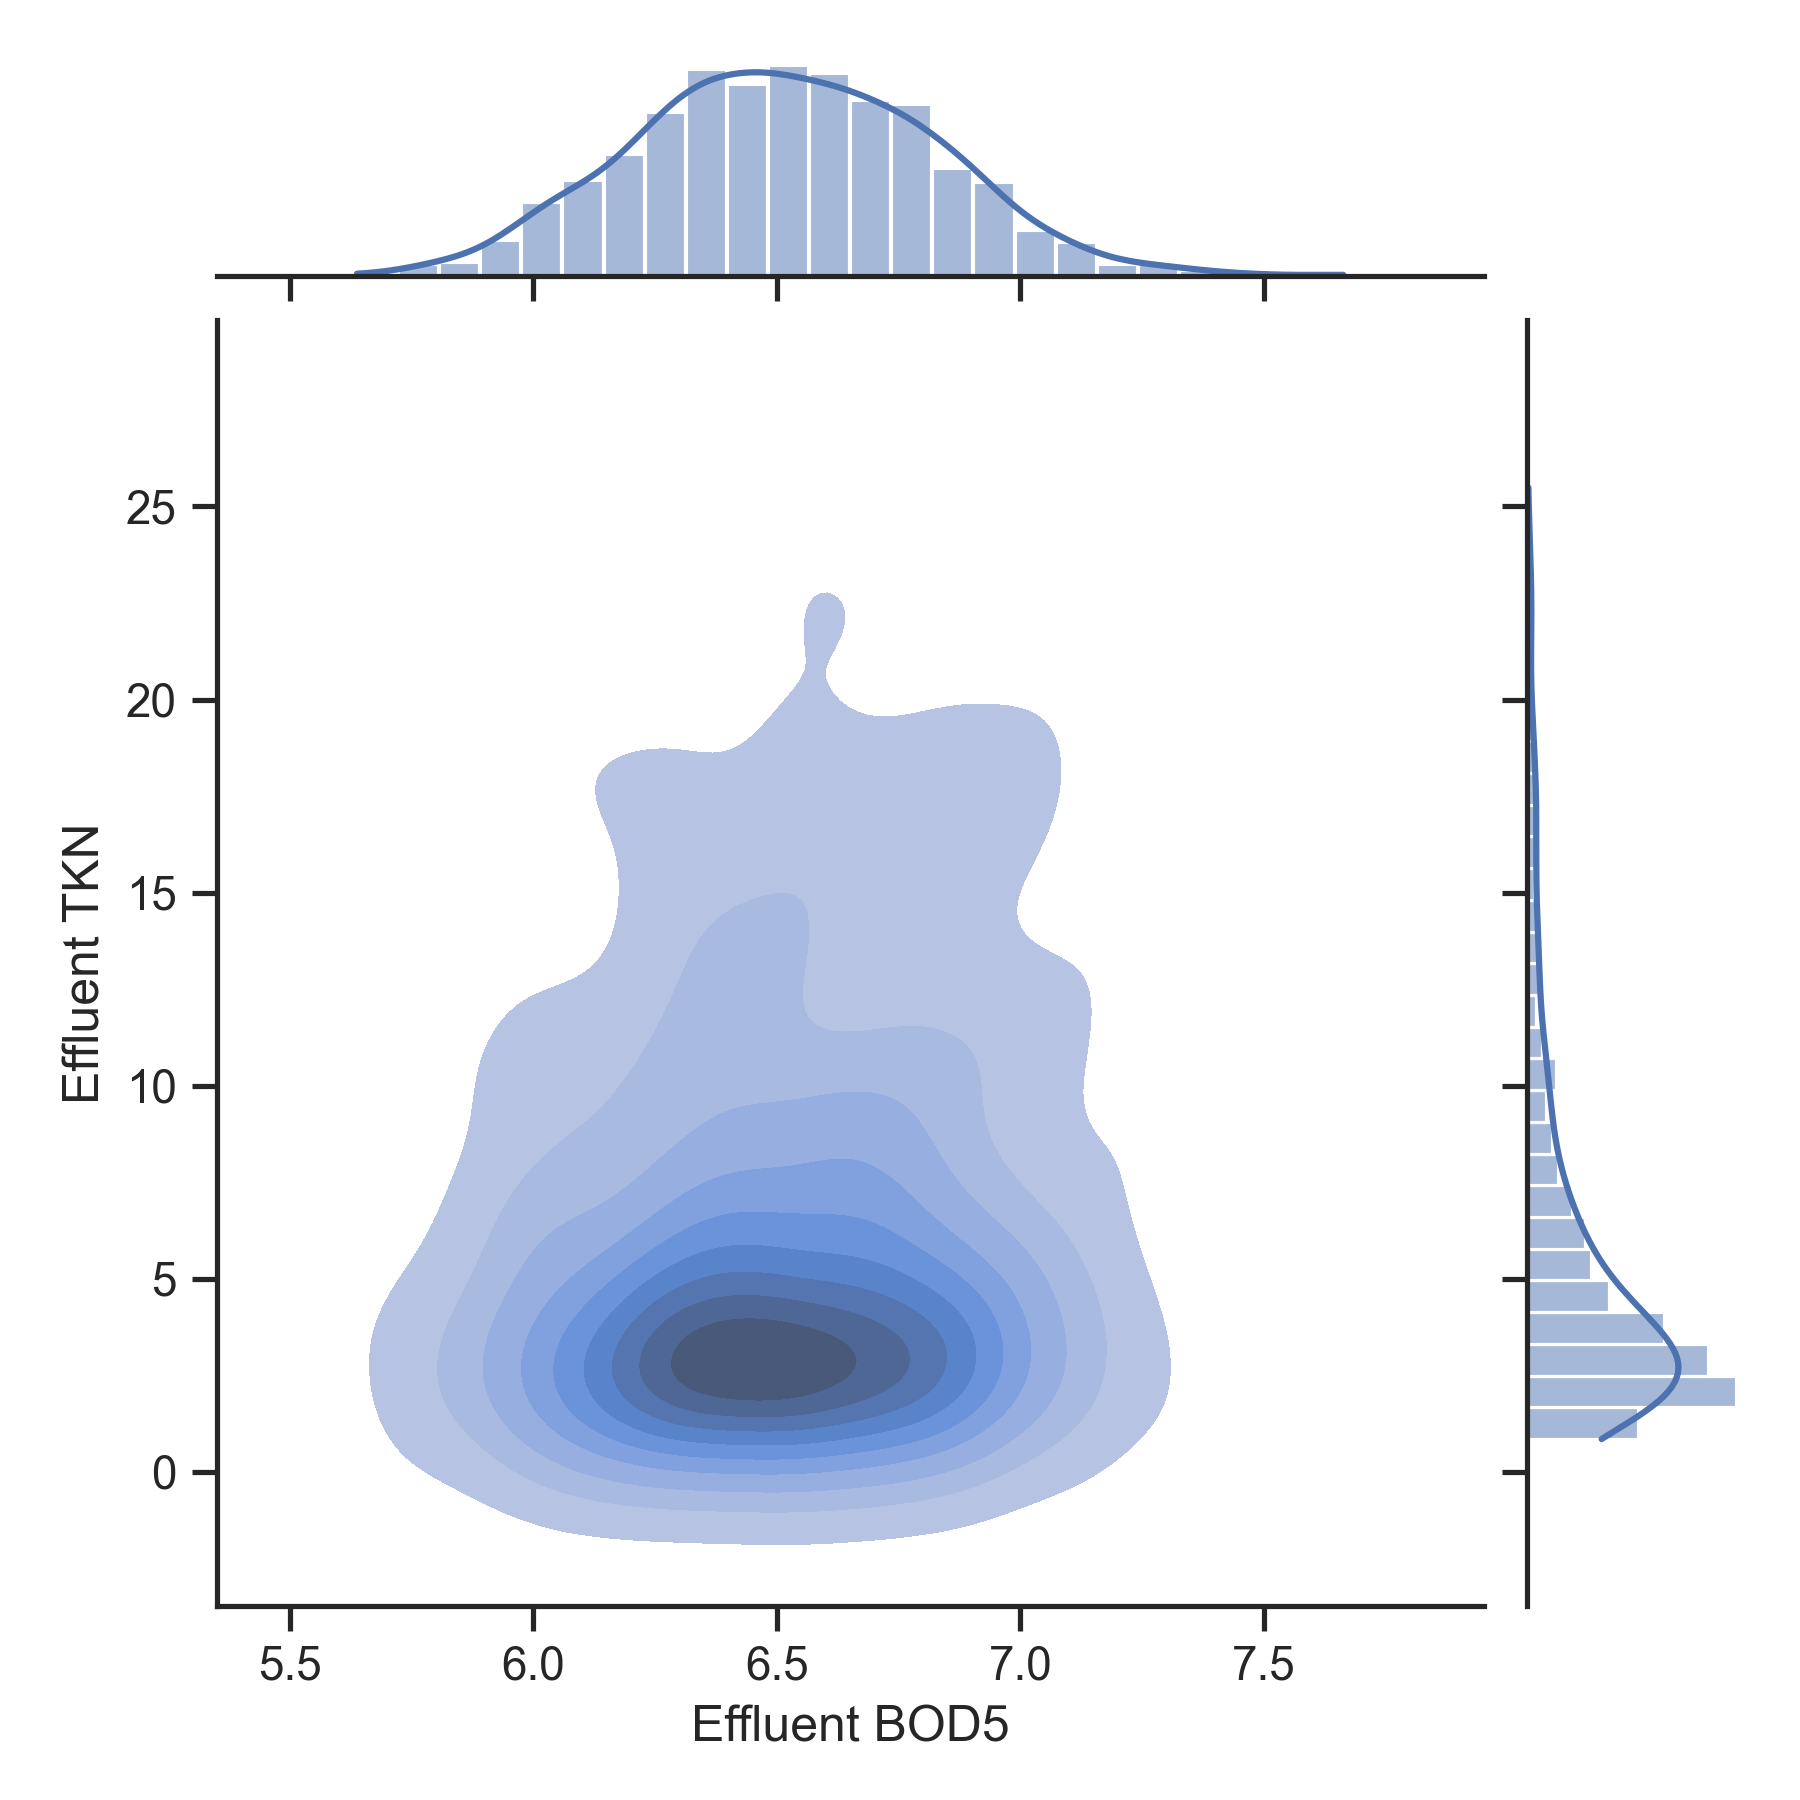
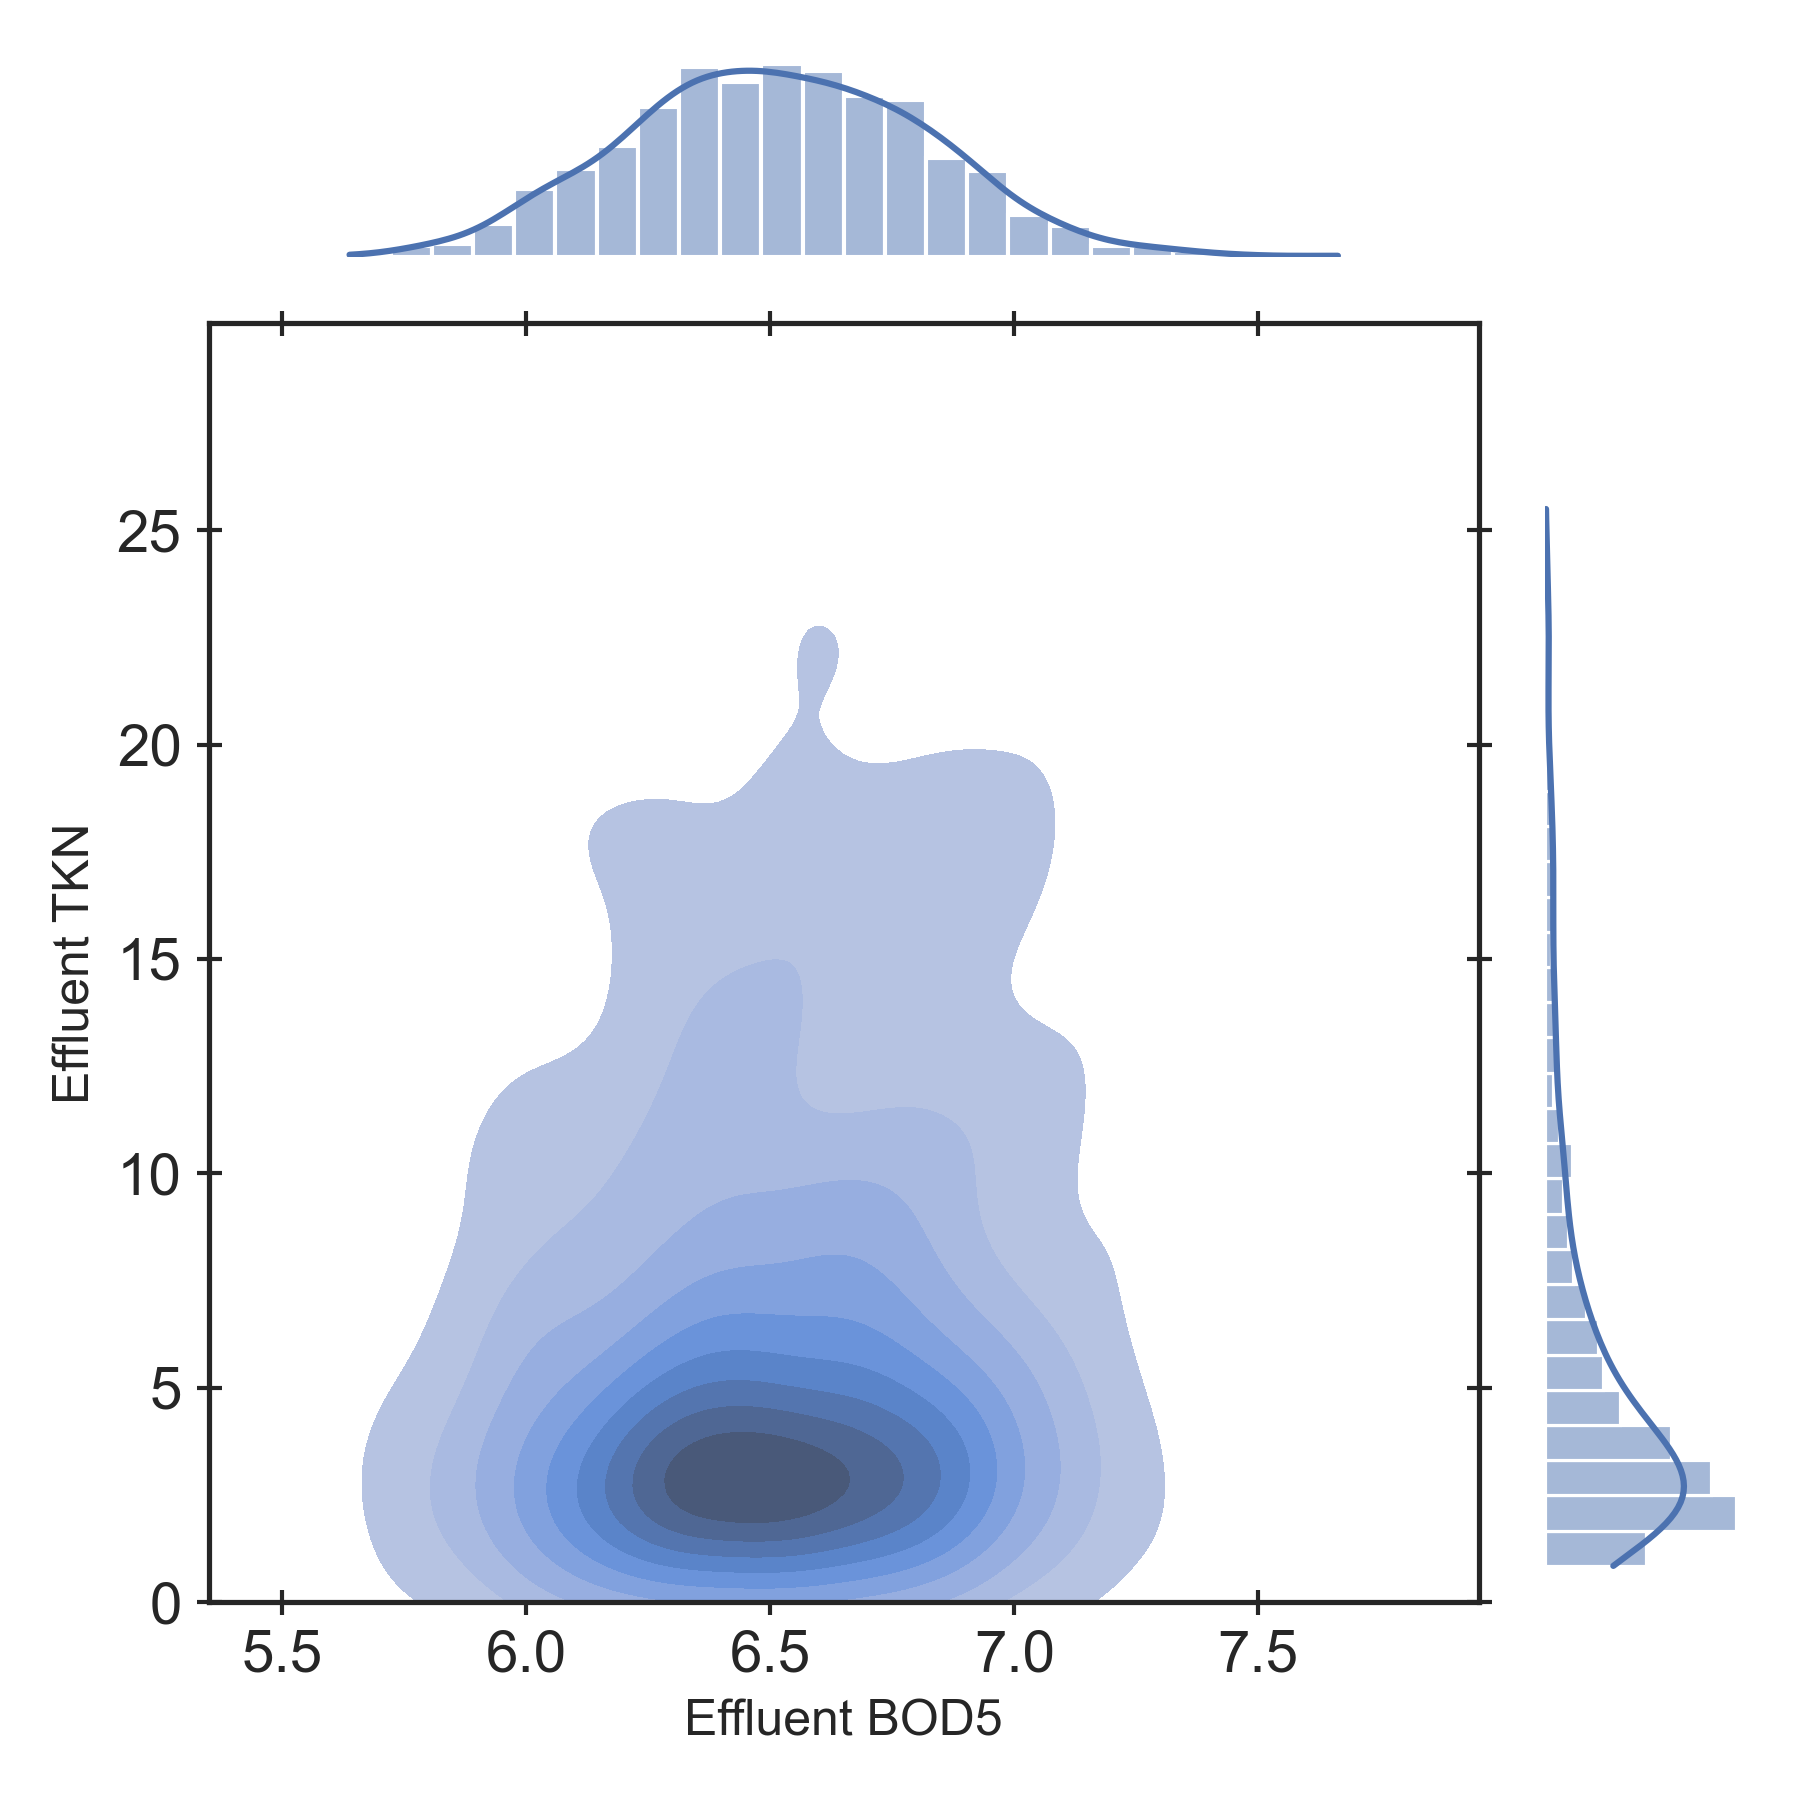
minor updates to bsm1 figures

diff --git a/exposan/bsm1/analyses.py b/exposan/bsm1/analyses.py
@@ -20,8 +20,9 @@ from exposan.bsm1 import model_bsm1 as mdl, model_2dv as mdl2, model_ss as mdls,
     results_path, figures_path
 import os
 import numpy as np
-import matplotlib as mpl, matplotlib.pyplot as plt
+import matplotlib as mpl, matplotlib.pyplot as plt, matplotlib.ticker as tk
 mpl.rcParams['font.sans-serif'] = 'arial' #!!! Yalin added this
+mpl.rcParams["figure.autolayout"] = True
 
 N = 1000
 T = 50
@@ -92,8 +93,8 @@ def plot_SE_timeseries(seed, N, data=None, wide=False):
     for var, ir, ic in plts:
         df = data[var]
         ax = axes[ir, ic]
-        ax.plot(df.t, df.iloc[:,:N].values,
-                color='grey', linestyle='-', alpha=0.05)
+        ys = df.iloc[:,:N].values
+        ax.plot(df.t, ys, color='grey', linestyle='-', alpha=0.05)
         lbl, = ax.plot(df.t, bl_data.loc[:, var],
                      color='orange', linestyle='-', linewidth=2.5,
                       label='Base')
@@ -103,12 +104,23 @@ def plot_SE_timeseries(seed, N, data=None, wide=False):
         l50, = ax.plot(df.t, df.loc[:,'50th percentile'],
                       color='black', linestyle='-.',
                       label='50th')
+        lct = tk.MaxNLocator(nbins=3, min_n_ticks=1)
+        y_ticks = lct.tick_values(np.min(ys), np.max(ys))
         ax.xaxis.set_ticks(x_ticks)
-        ax.tick_params(axis='both', direction='inout', labelsize=12) #!!! Yalin added
-        ax2 = ax.secondary_yaxis('right')
-        ax2.tick_params(axis='y', direction='in')
-        ax2.yaxis.set_major_formatter(plt.NullFormatter())
+        ax.yaxis.set_ticks(y_ticks)
+        if var == 'X_ND':
+            ax.yaxis.set_major_formatter(plt.FuncFormatter(lambda x, pos: f'{int(x*1000)}'))
+        ax.tick_params(axis='both', direction='inout', length=6, labelsize=14)
+        ax2x = ax.secondary_xaxis('top')
+        ax2x.xaxis.set_ticks(x_ticks)
+        ax2x.tick_params(axis='x', direction='in')
+        ax2x.xaxis.set_major_formatter(plt.NullFormatter())
+        ax2y = ax.secondary_yaxis('right')
+        ax2y.yaxis.set_ticks(y_ticks)
+        ax2y.tick_params(axis='y', direction='in')
+        ax2y.yaxis.set_major_formatter(plt.NullFormatter())
         # if ir == 0 and ic == 0: ax.legend(handles=[l5, l50, lbl])
+        plt.ylim(y_ticks[0], y_ticks[-1])
     if wide: plt.subplots_adjust(wspace=0.2, hspace=0.1)
     else: plt.subplots_adjust(hspace=0.1)
     fig.savefig(os.path.join(figures_path, 'effluent_yt.png'), dpi=300)
@@ -141,10 +153,10 @@ def plot_kde2d_metrics(model):
         ax0x = ax0.secondary_xaxis('top')
         ax0y = ax0.secondary_yaxis('right')
         for ax in (ax0, ax0x, ax0y):
-            ax.tick_params(axis='both', which='both', direction='inout', width=0.5)
+            ax.tick_params(axis='both', which='both', direction='inout', width=1)
 
         for txt in ax0.get_xticklabels()+ax0.get_yticklabels():
-            txt.set_fontsize(12)
+            txt.set_fontsize(14)
         ax0x.set_xticklabels('')
         ax0y.set_yticklabels('')
 
@@ -152,7 +164,8 @@ def plot_kde2d_metrics(model):
         ax1.spines.clear()
         ax2.spines.clear()
         ax2.yaxis.set_visible(False)
-
+        yl, yu = ax0.get_ylim()
+        if yl < 0: ax0.set_ylim((0, yu))
         fig.savefig(os.path.join(figures_path, f'{x}_vs_{y}.png'), dpi=300)
     fig, ax = plot_uncertainties(model, x_axis=metrics[6], kind='hist',
                                  center_kws={'kde':True})
@@ -171,7 +184,7 @@ def run_ks_test(model):
 def run_sensitivity(seed):
     mdl.table = load_data(os.path.join(results_path, f'table_{seed}.xlsx'), header=[0,1])
     plot_kde2d_metrics(mdl)
-    run_ks_test(mdl)
+    # run_ks_test(mdl)
 
 
 #%% 2-DV heatmap plotting
@@ -211,12 +224,14 @@ def plot_heatmaps(xx, yy, n, model=None, path='', wide=False):
     else:
         plts = zip(zz, irs, ics)
         fig, axes = plt.subplots(3, 2, sharex=True, sharey=True, figsize=(9,12))
+    
+    fig.set_tight_layout({'h_pad':4.5, 'w_pad': 0})
     for z, ir, ic in plts:
         ax = axes[ir, ic]
         pos = ax.imshow(z, aspect='auto', extent=(xx[0,0], xx[0,-1], yy[0,0], yy[-1,0]),
                         interpolation='spline16', origin='lower')
         ax.xaxis.set_ticks(x_ticks)
-        ax.tick_params(axis='both', direction='inout', labelsize=12)
+        ax.tick_params(axis='both', direction='inout', labelsize=14)
         ax.tick_params(axis='x', labelrotation=45)
         ax2x = ax.secondary_xaxis('top')
         ax2x.xaxis.set_ticks(x_ticks)
@@ -226,12 +241,12 @@ def plot_heatmaps(xx, yy, n, model=None, path='', wide=False):
         ax2y.tick_params(axis='y', direction='in')
         ax2y.yaxis.set_major_formatter(plt.NullFormatter())
         cbar = fig.colorbar(pos, ax=ax)
-        cbar.ax.tick_params(labelsize=12)
+        cbar.ax.tick_params(labelsize=14)
         cs = ax.contour(xx, yy, z, colors='white', origin='lower', linestyles='dashed',
                         linewidths=1, extent=(xx[0,0], xx[0,-1], yy[0,0], yy[-1,0]))
-        ax.clabel(cs, cs.levels, inline=True, fmt=fmt, fontsize=12)
-        ax.plot(xbl, ybl, marker='D', mec='black', mew=1.5, mfc='white')
-    if wide: plt.subplots_adjust(wspace=0.05, hspace=0.22)
+        ax.clabel(cs, cs.levels, inline=True, fmt=fmt, fontsize=14)
+        ax.plot(xbl, ybl, marker='D', mec='black', ms=7, mew=1.5, mfc='white')
+    # if wide: plt.subplots_adjust(wspace=0.05, hspace=0.5)
     fig.savefig(os.path.join(figures_path, 'heatmaps.png'), dpi=300)
     return fig, ax
 
@@ -257,7 +272,7 @@ def dv_analysis(n=20, T=T, t_step=t_step, save_to='table_2dv.xlsx',
     xx, yy = run_mapping(mdl2, n, T, t_step,
                          mpath=os.path.join(results_path, save_to))
     if plot: plot_heatmaps(xx, yy, n, mdl2, wide=wide)
-    # plot_heatmaps(xx, yy, n, path=os.path.join(results_path, save_to), wide=wide)
+    # if plot: plot_heatmaps(xx, yy, n, path=os.path.join(results_path, save_to), wide=wide)
 
 #%% 50-d simulations with different initial conditions
 def plot_SE_yt_w_diff_init(seed, N, data=None, wide=False):
@@ -280,18 +295,26 @@ def plot_SE_yt_w_diff_init(seed, N, data=None, wide=False):
     for var, ir, ic in plts:
         df = data[var]
         ax = axes[ir, ic]
-        ax.plot(df.t, df.iloc[:,:N].values,
-                color='grey', linestyle='-', alpha=0.25)
+        ys = df.iloc[:,:N].values
+        ax.plot(df.t, ys, color='grey', linestyle='-', alpha=0.25)
         lbm, = ax.plot(df.t, bm_data.loc[:, var],
                        color='red', linestyle='-.', label='MATLAB/Simulink')
+        lct = tk.MaxNLocator(nbins=3, min_n_ticks=1)
+        y_ticks = lct.tick_values(np.min(ys), np.max(ys))
         ax.xaxis.set_ticks(x_ticks)
-        ax.yaxis.set_major_locator(plt.MaxNLocator(5))
-        ax.tick_params(axis='both', direction='inout', labelsize=12)
-        ax2 = ax.secondary_yaxis('right')
-        ax2.tick_params(axis='y', direction='in')
-        ax2.yaxis.set_major_formatter(plt.NullFormatter())
+        ax.yaxis.set_ticks(y_ticks)
+        # ax.yaxis.set_major_locator(plt.MaxNLocator(5))
         if var == 'X_ND':
             ax.yaxis.set_major_formatter(plt.FuncFormatter(lambda x, pos: f'{int(x*1000)}'))
+        ax.tick_params(axis='both', direction='inout', length=6, labelsize=14)
+        ax2x = ax.secondary_xaxis('top')
+        ax2x.xaxis.set_ticks(x_ticks)
+        ax2x.tick_params(axis='x', direction='in')
+        ax2x.xaxis.set_major_formatter(plt.NullFormatter())
+        ax2y = ax.secondary_yaxis('right')
+        ax2y.yaxis.set_ticks(y_ticks)
+        ax2y.tick_params(axis='y', direction='in')
+        ax2y.yaxis.set_major_formatter(plt.NullFormatter())
         # if ir == 0 and ic == 0: ax.legend(handles=[lbm])
     if wide: plt.subplots_adjust(wspace=0.2, hspace=0.1)
     else: plt.subplots_adjust(hspace=0.1)
@@ -308,11 +331,11 @@ def UA_w_diff_inits(seed=None, N=100, T=T, t_step=t_step, plot=True, wide=True):
 
 #%%
 if __name__ == '__main__':
-    seed1 = UA_w_all_params()
-    run_sensitivity(seed1)
-    # plot_SE_timeseries(seed=seed1, N=N, wide=True)
+    # seed1 = UA_w_all_params()
+    run_sensitivity(624)
+    # plot_SE_timeseries(seed=624, N=N, wide=True)
 
-    dv_analysis()
+    # dv_analysis()
 
-    seed2 = UA_w_diff_inits()
-    # plot_SE_yt_w_diff_init(seed=seed2, N=100, wide=True)
+    # seed2 = UA_w_diff_inits()
+    # plot_SE_yt_w_diff_init(seed=235, N=100, wide=True)

diff --git a/exposan/bsm1/system.py b/exposan/bsm1/system.py
@@ -148,7 +148,7 @@ batch_init(os.path.join(bsm1_path, 'data/initial_conditions.xlsx'), 'default')
 # bio = System('Bio', path=(A1, A2, O1, O2, O3), recycle=(RE,))
 # bsm1 = System('BSM1', path=(bio, C1, S1), recycle=(RAS,))
 bsm1 = System('BSM1', path=(A1, A2, O1, O2, O3, C1), recycle=(RE, RAS))
-bsm1.set_dynamic_tracker(SE)
+bsm1.set_dynamic_tracker(A1, SE)
 bsm1.set_tolerance(rmol=1e-6)
 bio_IDs = ('X_BH', 'X_BA')
 
@@ -170,7 +170,7 @@ def run(t, t_step, method=None, **kwargs):
                       method=method,
                       # rtol=1e-2,
                       # atol=1e-3,
-                      export_state_to=f'results/sol_{t}d_{method}.xlsx',
+                      # export_state_to=f'results/sol_{t}d_{method}.xlsx',
                       **kwargs)
     else:
         bsm1.simulate(state_reset_hook='reset_cache',
